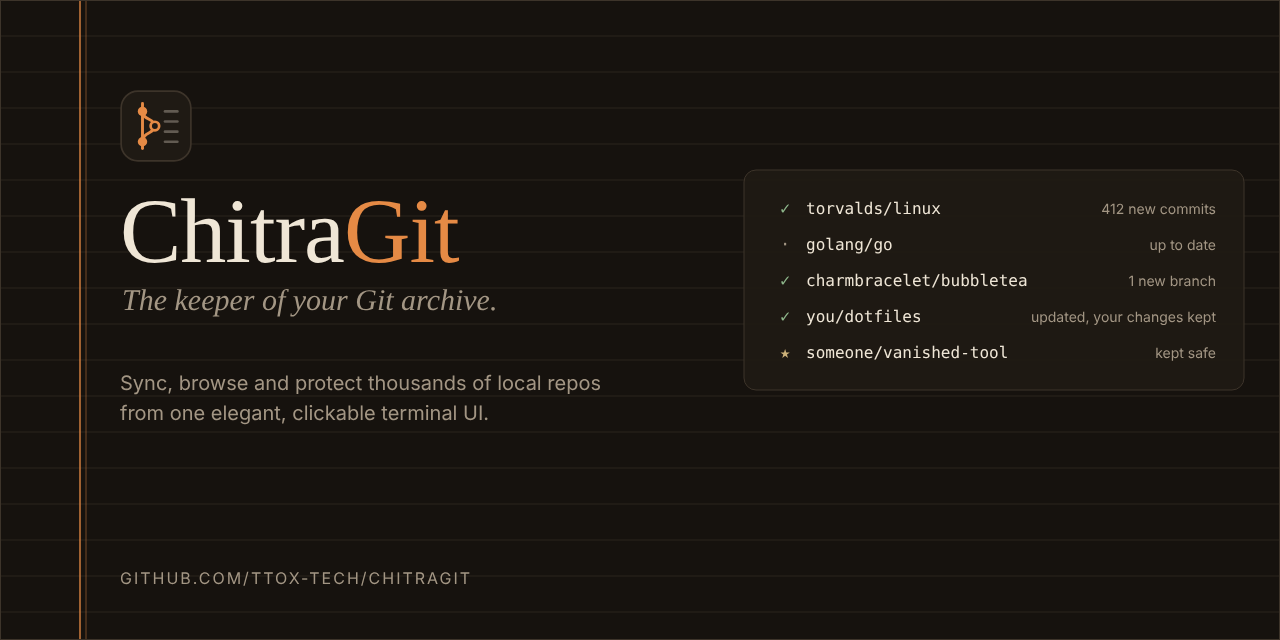
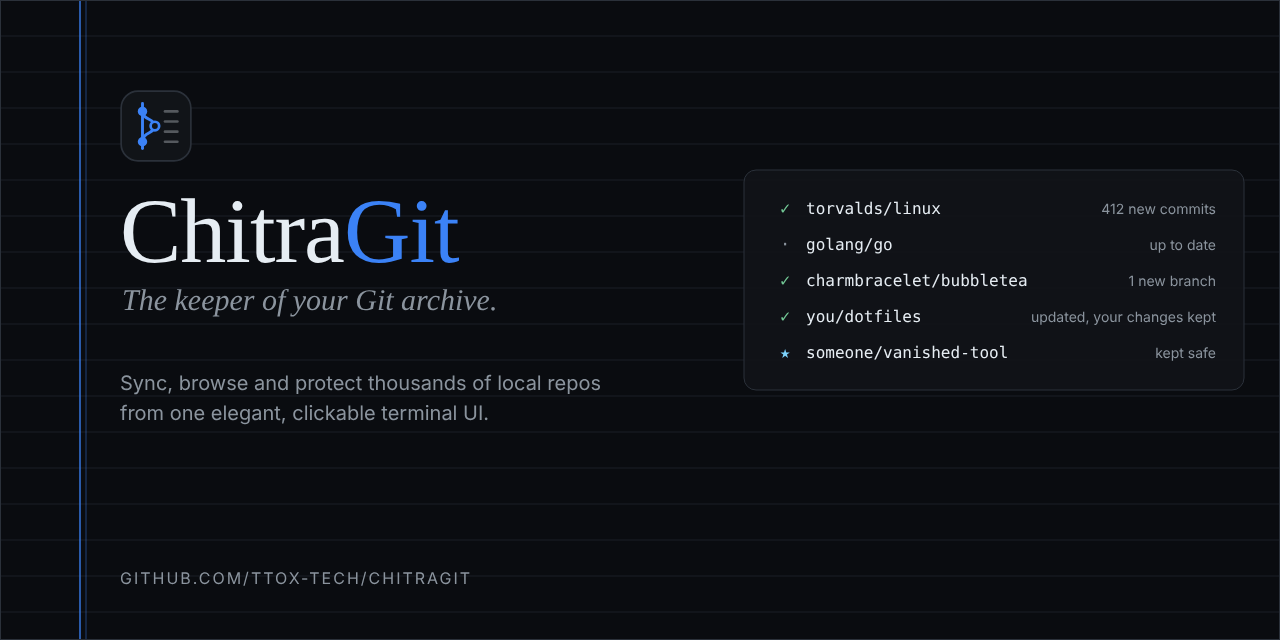
Rebrand to a black, dark grey and blue palette
Swap the brown and saffron ledger palette for ink-black pages, ash-grey
rules and a blue (neel) accent everywhere it is defined: the TUI theme,
the artwork generator, the docs site CSS, the VHS tapes and the README
badges. Regenerate the logo, banners, diagrams and social preview, and
recolour the two demo GIFs to match. Add text banners for terminals in
docs/assets/ascii and update the brand page, README and PRD wording.

diff --git a/website/docs/ledger.css b/website/docs/ledger.css
@@ -1,23 +1,23 @@
 /* The bahi-khata palette from docs/brand.md. */
 :root, [data-md-color-scheme="default"] {
-  --md-primary-fg-color: #B0531A;
-  --md-primary-fg-color--light: #C9733D;
-  --md-primary-fg-color--dark: #8A3F12;
-  --md-accent-fg-color: #B0531A;
-  --md-default-bg-color: #FBF8F2;
-  --md-default-fg-color: #2B231B;
-  --md-code-bg-color: #F4EEE3;
-  --md-typeset-a-color: #B0531A;
+  --md-primary-fg-color: #1D4ED8;
+  --md-primary-fg-color--light: #3B82F6;
+  --md-primary-fg-color--dark: #1E3A8A;
+  --md-accent-fg-color: #1D4ED8;
+  --md-default-bg-color: #F6F8FA;
+  --md-default-fg-color: #0D1117;
+  --md-code-bg-color: #EEF1F5;
+  --md-typeset-a-color: #1D4ED8;
 }
 [data-md-color-scheme="slate"] {
-  --md-primary-fg-color: #2A231C;
-  --md-primary-bg-color: #EFE6D6;
-  --md-accent-fg-color: #E58A45;
-  --md-default-bg-color: #16120E;
-  --md-default-fg-color: #EFE6D6;
-  --md-default-fg-color--light: #A39684;
-  --md-code-bg-color: #1F1A14;
-  --md-typeset-a-color: #E58A45;
+  --md-primary-fg-color: #1A1F26;
+  --md-primary-bg-color: #E6EDF3;
+  --md-accent-fg-color: #3B82F6;
+  --md-default-bg-color: #0A0C10;
+  --md-default-fg-color: #E6EDF3;
+  --md-default-fg-color--light: #8B949E;
+  --md-code-bg-color: #111418;
+  --md-typeset-a-color: #3B82F6;
 }
 .md-typeset h1, .md-typeset h2 {
   font-family: "Iowan Old Style", "Palatino Linotype", Palatino, Georgia, serif;

diff --git a/internal/ui/theme/theme.go b/internal/ui/theme/theme.go
@@ -1,6 +1,7 @@
 // Package theme defines ChitraGit's colour palettes. The default "ledger"
-// theme is inspired by a traditional bahi-khata (account book): ink-brown
-// pages and parchment text, with kesariya (saffron) as the single accent.
+// theme is inspired by a traditional bahi-khata (account book) written in
+// blue ink: syahi (ink-black) pages, raakh (ash-grey) rules and light text,
+// with neel (blue) as the single accent.
 // Status colours are muted so the accent stays the one thing that stands
 // out. The README artwork in docs/assets uses the same hex values; see
 // docs/brand.md before changing any of them.
@@ -11,13 +12,13 @@ import "github.com/charmbracelet/lipgloss"
 // Palette is the set of semantic colours every UI element uses.
 type Palette struct {
 	Name       string
-	Background lipgloss.TerminalColor // page: ink (dark) or parchment (light); nil = leave the terminal's own
-	Primary    lipgloss.TerminalColor // kesariya, the one accent: actions, headings, focus
-	Highlight  lipgloss.TerminalColor // brass: hints and the Rescued badge
+	Background lipgloss.TerminalColor // page: ink-black (dark) or paper-white (light); nil = leave the terminal's own
+	Primary    lipgloss.TerminalColor // neel (blue), the one accent: actions, headings, focus
+	Highlight  lipgloss.TerminalColor // aasmani (sky blue): hints and the Rescued badge
 	Success    lipgloss.TerminalColor // sage
 	Warning    lipgloss.TerminalColor // amber
 	Error      lipgloss.TerminalColor // sindoor
-	Text       lipgloss.TerminalColor // parchment (dark) or ink (light)
+	Text       lipgloss.TerminalColor // light grey (dark) or ink-black (light)
 	Muted      lipgloss.TerminalColor // secondary text
 	Rule       lipgloss.TerminalColor // ledger lines and borders (decorative)
 }
@@ -27,26 +28,26 @@ type Palette struct {
 // background; theme_test.go checks this.
 var (
 	ledgerDark = Palette{
-		Background: lipgloss.Color("#16120E"),
-		Primary:    lipgloss.Color("#E58A45"),
-		Highlight:  lipgloss.Color("#CDB27A"),
-		Success:    lipgloss.Color("#8DB58A"),
-		Warning:    lipgloss.Color("#DDA654"),
-		Error:      lipgloss.Color("#E07A66"),
-		Text:       lipgloss.Color("#EFE6D6"),
-		Muted:      lipgloss.Color("#A39684"),
-		Rule:       lipgloss.Color("#3D342A"),
+		Background: lipgloss.Color("#0A0C10"),
+		Primary:    lipgloss.Color("#3B82F6"),
+		Highlight:  lipgloss.Color("#7DD3FC"),
+		Success:    lipgloss.Color("#72C795"),
+		Warning:    lipgloss.Color("#E3B341"),
+		Error:      lipgloss.Color("#F47067"),
+		Text:       lipgloss.Color("#E6EDF3"),
+		Muted:      lipgloss.Color("#8B949E"),
+		Rule:       lipgloss.Color("#2B313A"),
 	}
 	ledgerLight = Palette{
-		Background: lipgloss.Color("#FBF8F2"),
-		Primary:    lipgloss.Color("#B0531A"),
-		Highlight:  lipgloss.Color("#76612F"),
-		Success:    lipgloss.Color("#46704A"),
-		Warning:    lipgloss.Color("#8C5B0E"),
-		Error:      lipgloss.Color("#A63D30"),
-		Text:       lipgloss.Color("#2B231B"),
-		Muted:      lipgloss.Color("#6E6355"),
-		Rule:       lipgloss.Color("#E2D8C6"),
+		Background: lipgloss.Color("#F6F8FA"),
+		Primary:    lipgloss.Color("#1D4ED8"),
+		Highlight:  lipgloss.Color("#0E6A8C"),
+		Success:    lipgloss.Color("#1A7F37"),
+		Warning:    lipgloss.Color("#9A6700"),
+		Error:      lipgloss.Color("#CF222E"),
+		Text:       lipgloss.Color("#0D1117"),
+		Muted:      lipgloss.Color("#57606A"),
+		Rule:       lipgloss.Color("#D0D7DE"),
 	}
 )
 
@@ -73,8 +74,8 @@ var palettes = map[string]Palette{
 	"ledger-light": withName(ledgerLight, "ledger-light"),
 	"high-contrast": {
 		Name:      "high-contrast",
-		Primary:   lipgloss.ANSIColor(11),
-		Highlight: lipgloss.ANSIColor(14),
+		Primary:   lipgloss.ANSIColor(14),
+		Highlight: lipgloss.ANSIColor(12),
 		Success:   lipgloss.ANSIColor(10),
 		Warning:   lipgloss.ANSIColor(11),
 		Error:     lipgloss.ANSIColor(9),

diff --git a/docs/assets/src/gen.py b/docs/assets/src/gen.py
@@ -14,10 +14,10 @@ OUT = sys.argv[1]
 os.makedirs(OUT, exist_ok=True)
 
 P = {
-    "dark": dict(bg="#16120E", surface="#1F1A14", raised="#2A231C", rule="#3D342A", text="#EFE6D6",
-                 muted="#A39684", accent="#E58A45", brass="#CDB27A", sage="#8DB58A", amber="#DDA654", sindoor="#E07A66"),
-    "light": dict(bg="#FBF8F2", surface="#F4EEE3", raised="#EDE5D6", rule="#E2D8C6", text="#2B231B",
-                  muted="#6E6355", accent="#B0531A", brass="#76612F", sage="#46704A", amber="#8C5B0E", sindoor="#A63D30"),
+    "dark": dict(bg="#0A0C10", surface="#111418", raised="#1A1F26", rule="#2B313A", text="#E6EDF3",
+                 muted="#8B949E", accent="#3B82F6", sky="#7DD3FC", sage="#72C795", amber="#E3B341", sindoor="#F47067"),
+    "light": dict(bg="#F6F8FA", surface="#EEF1F5", raised="#E4E8EE", rule="#D0D7DE", text="#0D1117",
+                  muted="#57606A", accent="#1D4ED8", sky="#0E6A8C", sage="#1A7F37", amber="#9A6700", sindoor="#CF222E"),
 }
 SERIF = "'Iowan Old Style','Palatino Linotype',Palatino,'Book Antiqua',Georgia,serif"
 SANS = "-apple-system,BlinkMacSystemFont,'Segoe UI',Inter,'Helvetica Neue',Arial,sans-serif"
@@ -29,7 +29,7 @@ def style(c, extra=""):
 .bg{{fill:{c['bg']}}} .surface{{fill:{c['surface']}}} .raised{{fill:{c['raised']}}}
 .rule{{stroke:{c['rule']}}} .rulef{{fill:{c['rule']}}}
 .text{{fill:{c['text']}}} .muted{{fill:{c['muted']}}} .accent{{fill:{c['accent']}}} .accents{{stroke:{c['accent']}}}
-.brass{{fill:{c['brass']}}} .sage{{fill:{c['sage']}}} .amber{{fill:{c['amber']}}} .sindoor{{fill:{c['sindoor']}}}
+.sky{{fill:{c['sky']}}} .sage{{fill:{c['sage']}}} .amber{{fill:{c['amber']}}} .sindoor{{fill:{c['sindoor']}}}
 .serif{{font-family:{SERIF}}} .sans{{font-family:{SANS}}} .mono{{font-family:{MONO}}}
 {extra}
 </style>"""
@@ -71,7 +71,7 @@ LEDGER = [
     ("muted", "·", "golang/go", "up to date"),
     ("sage", "✓", "charmbracelet/bubbletea", "1 new branch"),
     ("sage", "✓", "you/dotfiles", "updated, your changes kept"),
-    ("brass", "★", "someone/vanished-tool", "kept safe"),
+    ("sky", "★", "someone/vanished-tool", "kept safe"),
 ]
 
 
@@ -307,7 +307,7 @@ write("roadmap-light.svg", roadmap("light"))
 def palette():
     w, h = 1280, 330
     roles = [("bg", "Background"), ("surface", "Surface"), ("rule", "Rule"), ("text", "Text"), ("muted", "Muted"),
-             ("accent", "Kesariya"), ("brass", "Brass"), ("sage", "Sage"), ("amber", "Amber"), ("sindoor", "Sindoor")]
+             ("accent", "Neel"), ("sky", "Aasmani"), ("sage", "Sage"), ("amber", "Amber"), ("sindoor", "Sindoor")]
     out = []
     for r, mode in enumerate(["dark", "light"]):
         c = P[mode]

diff --git a/docs/brand.md b/docs/brand.md
@@ -4,16 +4,16 @@
   <p><i>One theme, one accent, calm everywhere else.</i></p>
 </div>
 
-ChitraGit's look comes from the *bahi-khata*, the red-bound Indian account book that
-traders have kept for centuries: ink-brown pages, parchment text, ruled lines and a
-margin. This page is the reference for anyone drawing artwork, writing a TUI screen
+ChitraGit's look comes from the *bahi-khata*, the Indian account book that traders have
+kept for centuries, here written in blue ink: *syahi* (ink-black) pages, *raakh*
+(ash-grey) ruled lines and a margin, and *neel* (blue) for the hand that writes. This page is the reference for anyone drawing artwork, writing a TUI screen
 or proposing a new theme.
 
 ## Principles
 
-1. **One accent.** Kesariya (saffron) marks what matters: the primary action, the
+1. **One accent.** Neel (blue) marks what matters: the primary action, the
    focused element, the brand. Nothing else competes with it.
-2. **Status colours are quiet.** Sage, amber, sindoor and brass are muted on purpose.
+2. **Status colours are quiet.** Sage, amber, sindoor and aasmani are muted on purpose.
    They tell you *what happened*; they are not decoration. Every status also has a
    glyph (`✓ · ! ✗ ★`), so colour is never the only signal.
 3. **Readable first.** Every text colour meets WCAG AA (the Web Content Accessibility
@@ -28,16 +28,16 @@ or proposing a new theme.
 
 | Role | Dark | Light | Used for |
 |---|---|---|---|
-| Background | `#16120E` | `#FBF8F2` | page (ink or parchment) |
-| Surface | `#1F1A14` | `#F4EEE3` | cards and panels (artwork only) |
-| Rule | `#3D342A` | `#E2D8C6` | ledger lines and borders; decorative, never text |
-| Text | `#EFE6D6` | `#2B231B` | body text |
-| Muted | `#A39684` | `#6E6355` | secondary text, unchanged repos |
-| **Kesariya** (accent) | `#E58A45` | `#B0531A` | primary actions, headings, focus, the logo |
-| Brass | `#CDB27A` | `#76612F` | hints, the Rescued badge `★` |
-| Sage | `#8DB58A` | `#46704A` | success `✓` |
-| Amber | `#DDA654` | `#8C5B0E` | warnings and skipped repos `!` |
-| Sindoor | `#E07A66` | `#A63D30` | errors `✗` |
+| Background | `#0A0C10` | `#F6F8FA` | page (ink-black or paper-white) |
+| Surface | `#111418` | `#EEF1F5` | cards and panels (artwork only) |
+| Rule | `#2B313A` | `#D0D7DE` | ledger lines and borders; decorative, never text |
+| Text | `#E6EDF3` | `#0D1117` | body text |
+| Muted | `#8B949E` | `#57606A` | secondary text, unchanged repos |
+| **Neel** (accent) | `#3B82F6` | `#1D4ED8` | primary actions, headings, focus, the logo |
+| Aasmani | `#7DD3FC` | `#0E6A8C` | hints, the Rescued badge `★` |
+| Sage | `#72C795` | `#1A7F37` | success `✓` |
+| Amber | `#E3B341` | `#9A6700` | warnings and skipped repos `!` |
+| Sindoor | `#F47067` | `#CF222E` | errors `✗` |
 
 The source of truth is [`internal/ui/theme/theme.go`](../internal/ui/theme/theme.go).
 The three built-in themes are:
@@ -67,7 +67,7 @@ the reader's operating system.
 A ledger page whose margin line is a small commit graph: a branch leaves the line and
 rejoins it, next to four ruled entries. Use it on its own ink tile, as drawn; do not
 recolour it, add effects or place it on a busy background. The wordmark is
-"Chitra" in Text and "Git" in Kesariya, set in the book serif.
+"Chitra" in Text and "Git" in Neel, set in the book serif.
 
 ## Artwork
 
@@ -85,7 +85,27 @@ python3 docs/assets/src/gen.py docs/assets
 | `palette.svg`, `logo.svg` | this page |
 | `social-preview.png` | link previews; upload it in **Settings → General → Social preview** |
 
-If you change a colour, change it in `theme.go` and `gen.py` together, run
+The demo GIFs (`demo-tui.gif`, `demo-cli.gif`) are recorded with [VHS](https://github.com/charmbracelet/vhs)
+from `docs/demo/*.tape`; the terminal theme in each tape uses the same hex values.
+
+### Text banner
+
+For places that only show text (release notes, a terminal, a plain README),
+[`docs/assets/ascii`](assets/ascii) has the logo and wordmark drawn in Unicode box and
+block characters: `banner.txt` (98 columns), `banner-compact.txt` (fits 60 columns) and
+`banner-ascii.txt` (plain ASCII for legacy consoles). The `.ansi` files are the same
+banners in the palette, for `cat` in a true-colour terminal.
+
+```text
+╭─────────╮
+│ ●╮   ━━ │
+│ │╰◯  ━━ │   █▀▀ █ █ █ ▀█▀ █▀█ ▄▀█   █▀▀ █ ▀█▀
+│ │╭╯  ━━ │   █▄▄ █▀█ █  █  █▀▄ █▀█   █▄█ █  █
+│ ●╯   ━━ │
+╰─────────╯   The keeper of your Git archive.
+```
+
+If you change a colour, change it in `theme.go`, `gen.py` and the two tapes together, run
 `go test ./internal/ui/theme` and regenerate the artwork. `social-preview.png` is a
 1280×640 screenshot of `social-preview.svg`; re-export it after changing the SVG.
 

diff --git a/README.md b/README.md
@@ -7,12 +7,12 @@
 
 <br><br>
 
-[![CI](https://img.shields.io/github/actions/workflow/status/TTox-Tech/chitragit/ci.yml?branch=main&style=flat-square&label=ci&labelColor=2B231B)](https://github.com/TTox-Tech/chitragit/actions/workflows/ci.yml)
-[![Go](https://img.shields.io/badge/go-1.26+-B0531A?style=flat-square&labelColor=2B231B)](go.mod)
-[![Platforms](https://img.shields.io/badge/linux%20·%20macOS%20·%20windows-6E6355?style=flat-square&labelColor=2B231B)](#install)
-[![License: MIT](https://img.shields.io/badge/license-MIT-6E6355?style=flat-square&labelColor=2B231B)](LICENSE)
-[![Release](https://img.shields.io/github/v/release/TTox-Tech/ChitraGit?style=flat-square&labelColor=2B231B&color=B0531A)](https://github.com/TTox-Tech/ChitraGit/releases/latest)
-[![Docs](https://img.shields.io/badge/docs-ttox--tech.github.io-6E6355?style=flat-square&labelColor=2B231B)](https://ttox-tech.github.io/ChitraGit/)
+[![CI](https://img.shields.io/github/actions/workflow/status/TTox-Tech/chitragit/ci.yml?branch=main&style=flat-square&label=ci&labelColor=0D1117)](https://github.com/TTox-Tech/chitragit/actions/workflows/ci.yml)
+[![Go](https://img.shields.io/badge/go-1.26+-1D4ED8?style=flat-square&labelColor=0D1117)](go.mod)
+[![Platforms](https://img.shields.io/badge/linux%20·%20macOS%20·%20windows-57606A?style=flat-square&labelColor=0D1117)](#install)
+[![License: MIT](https://img.shields.io/badge/license-MIT-57606A?style=flat-square&labelColor=0D1117)](LICENSE)
+[![Release](https://img.shields.io/github/v/release/TTox-Tech/ChitraGit?style=flat-square&labelColor=0D1117&color=1D4ED8)](https://github.com/TTox-Tech/ChitraGit/releases/latest)
+[![Docs](https://img.shields.io/badge/docs-ttox--tech.github.io-57606A?style=flat-square&labelColor=0D1117)](https://ttox-tech.github.io/ChitraGit/)
 
 **[Why](#why-chitragit)** &nbsp;·&nbsp; **[Features](#features)** &nbsp;·&nbsp; **[Install](#install)** &nbsp;·&nbsp; **[Quick start](#quick-start)** &nbsp;·&nbsp; **[How sync works](#how-sync-works)** &nbsp;·&nbsp; **[Architecture](#architecture)** &nbsp;·&nbsp; **[Roadmap](#roadmap)** &nbsp;·&nbsp; **[Docs](https://ttox-tech.github.io/ChitraGit/)** &nbsp;·&nbsp; **[Contributing](#contributing)**
 
@@ -252,8 +252,8 @@ flowchart LR
   engine --> store
   syncer --> gitx
 
-  classDef core stroke:#E58A45,stroke-width:2px
-  classDef ui stroke:#B0531A,stroke-width:1.5px
+  classDef core stroke:#3B82F6,stroke-width:2px
+  classDef ui stroke:#1D4ED8,stroke-width:1.5px
 ```
 
 <details>
@@ -311,8 +311,8 @@ flowchart LR
 
 ## Design
 
-ChitraGit's look comes from the *bahi-khata*, the red-bound Indian account book: ink-brown
-pages, parchment text and ruled lines, with **kesariya** (saffron) as the one accent.
+ChitraGit's look comes from the *bahi-khata*, the Indian account book, written in blue ink:
+ink-black pages, ash-grey ruled lines and light text, with **neel** (blue) as the one accent.
 Every text colour meets WCAG AA contrast in both light and dark. See
 [`docs/brand.md`](docs/brand.md) for the palette, the logo and how to regenerate the artwork.
 

diff --git a/docs/PRD.md b/docs/PRD.md
@@ -365,7 +365,7 @@ chitragit version
 
 ### F18. Look and feel: Indian ledger theme
 
-- **Palette (dark default):** deep ink-brown background and parchment text, with **kesariya** (saffron) as the *single* accent for primary actions and focus. Everything else is quiet: brass for hints and the Rescued badge, sage for success, amber for warnings, muted **sindoor** red for errors. Every text colour meets WCAG AA contrast (at least 4.5:1) against its background. Plus a light "parchment" variant and a **high-contrast** accessible theme. User themes are loaded from TOML. The exact values live in `internal/ui/theme` and are documented in [`docs/brand.md`](brand.md).
+- **Palette (dark default):** ink-black background, ash-grey rules and light text, with **neel** (blue) as the *single* accent for primary actions and focus. Everything else is quiet: aasmani (sky blue) for hints and the Rescued badge, sage for success, amber for warnings, muted **sindoor** red for errors. Every text colour meets WCAG AA contrast (at least 4.5:1) against its background. Plus a light "paper" variant and a **high-contrast** accessible theme. User themes are loaded from TOML. The exact values live in `internal/ui/theme` and are documented in [`docs/brand.md`](brand.md).
 - **Motifs:** ledger rules and margins as panel borders, entries written line by line, page-turn transitions between screens.
 - **Animations:** ASCII-art logo reveal on startup; **diya flame** spinner; kalam (pen) "writing" progress; gentle page-turn on navigation; celebratory rangoli burst on a fully clean run (only in Full mode).
 - **Animation levels:** Full / Light (spinners + bars only) / Off. **Auto** picks Light over SSH (`SSH_CONNECTION`), in low-capability terminals, or when frame rendering is slow; picks Off for `TERM=dumb` or `NO_COLOR` without a TTY.

diff --git a/CHANGELOG.md b/CHANGELOG.md
@@ -38,6 +38,12 @@ All notable changes to ChitraGit are listed here. The format is based on
   sandboxed; `doctor` shows whether they are installed. A problem removed from
   HEAD is marked fixed, like an upgraded dependency.
 
+### Changed
+
+- New look: the ledger theme, the logo, the README artwork, the docs site and the demo
+  GIFs now use black, dark grey and blue (neel) instead of brown and saffron. Theme
+  names and settings are unchanged. Text banners for terminals live in `docs/assets/ascii`.
+
 ## [1.0.0] - 2026-11-07
 
 The first release: the whole v1.0 product spec ([`docs/PRD.md`](docs/PRD.md)),
